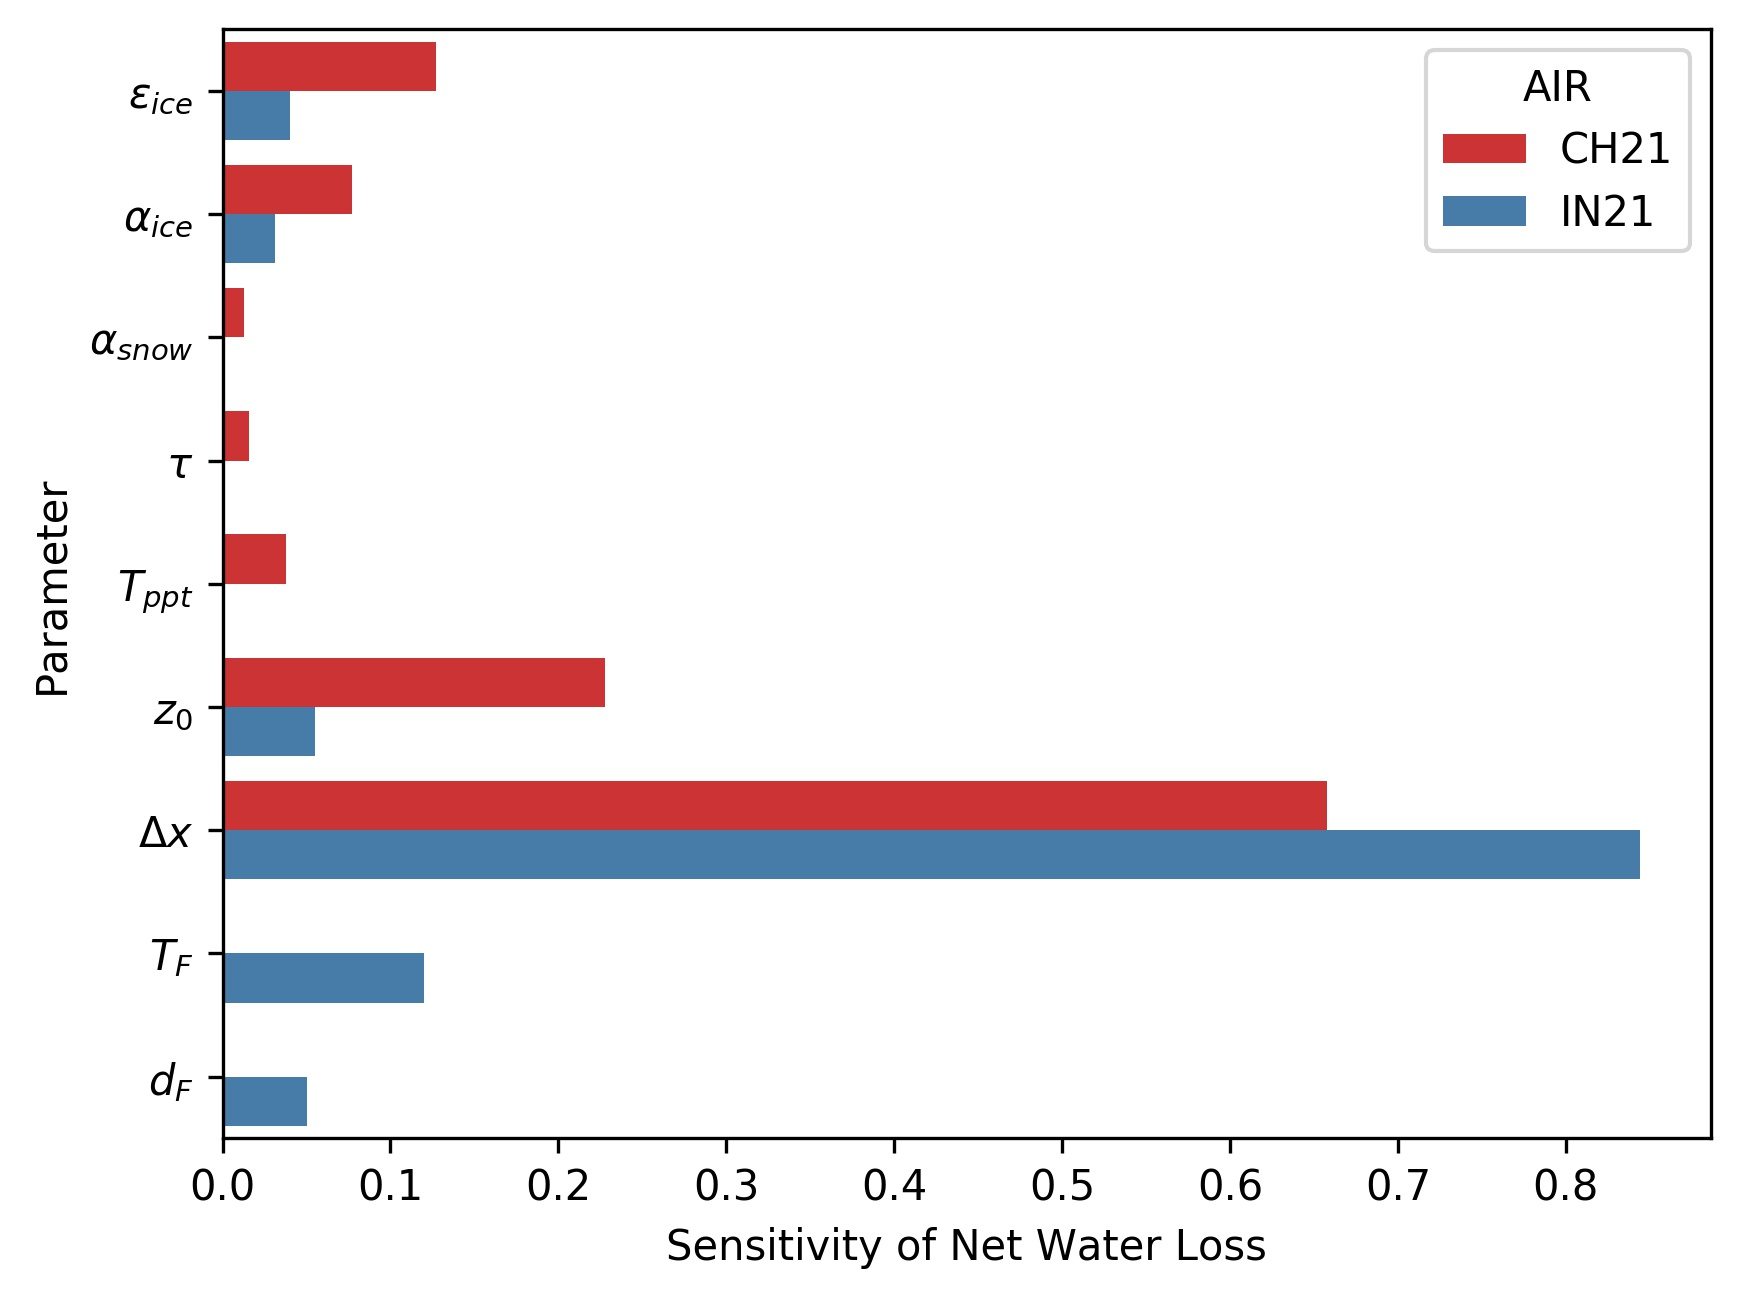
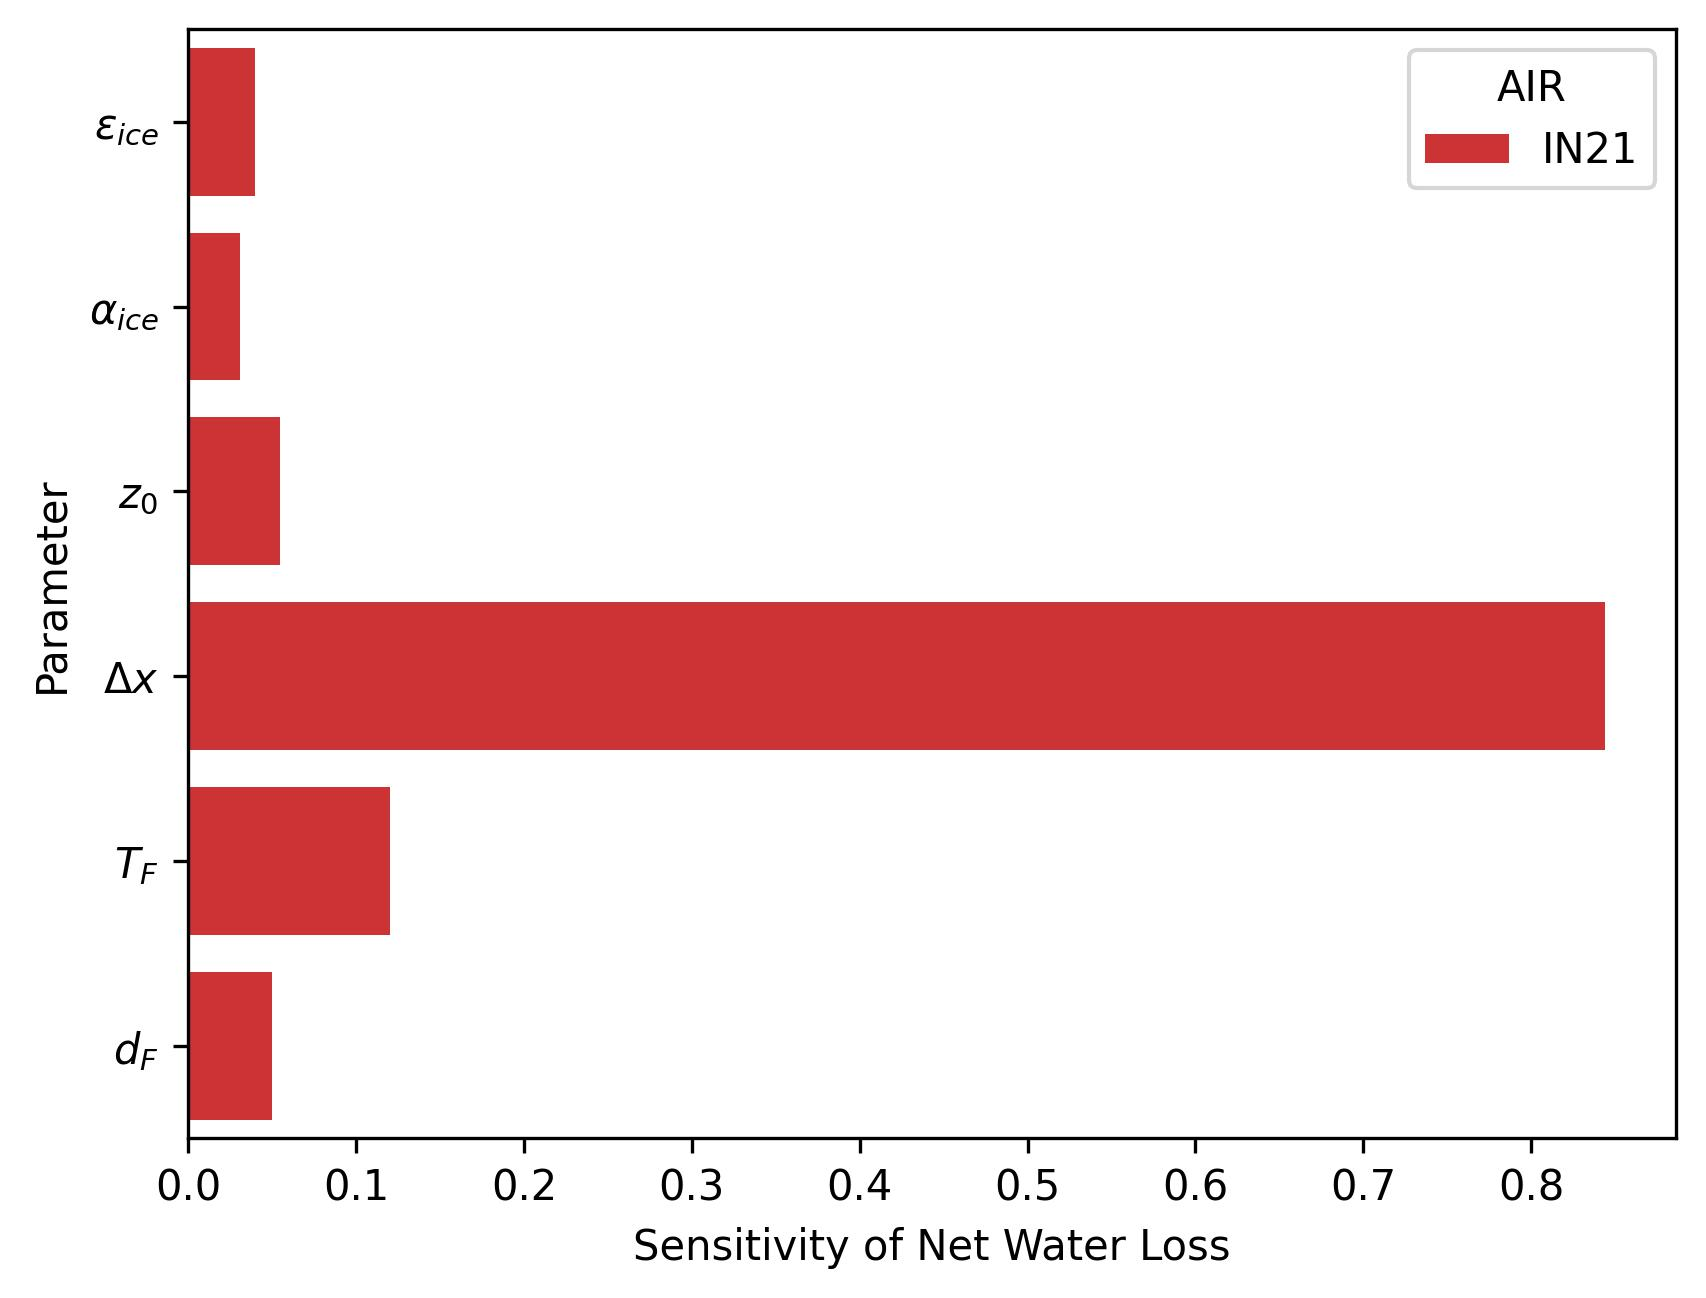
include max vol feature

diff --git a/src/plots/uq_plot_full.py b/src/plots/uq_plot_full.py
@@ -26,9 +26,10 @@ if __name__ == "__main__":
     logger = logging.getLogger(__name__)
     logger.setLevel("ERROR")
 
-    locations = ['gangles21', 'guttannen21', 'guttannen20']
+    # locations = ['gangles21', 'guttannen21', 'guttannen20']
     # locations = ["gangles21", "guttannen21"]
-    # locations = [ 'guttannen21']
+    locations = [ 'gangles21']
+    feature_name = 'max_volume'
 
     blue = "#0a4a97"
     red = "#e23028"
@@ -55,7 +56,6 @@ if __name__ == "__main__":
         CONSTANTS, SITE, FOLDER = config(location)
         icestupa = Icestupa(location)
         icestupa.read_output()
-        icestupa.self_attributes()
 
         variance = []
         mean = []
@@ -92,6 +92,7 @@ if __name__ == "__main__":
         )
 
         data.load(filename1)
+        # print(data[feature_name])
         print(data)
         data1 = data[location]
         data1["percentile_5"] = data1["percentile_5"][1 : len(days2) + 1]

diff --git a/src/utils/GSA_analyse.py b/src/utils/GSA_analyse.py
@@ -29,8 +29,8 @@ if __name__ == "__main__":
     logger.setLevel("ERROR")
 
     # locations = ["gangles21", "guttannen21"]
-    locations = ["guttannen21", "gangles21"]
-    # locations = [ 'gangles21']
+    # locations = ["guttannen21", "gangles21"]
+    locations = [ 'gangles21']
 
     result = []
     for i, location in enumerate(locations):
@@ -42,6 +42,7 @@ if __name__ == "__main__":
 
         data.load(filename1)
         data1 = data[location]
+        print(data)
 
         for param, value in zip(data.uncertain_parameters,data1['sobol_total_average'] ):
             print(f'\t{param} has total order sens. =  {round(value,2)}')

diff --git a/src/utils/uq_full.py b/src/utils/uq_full.py
@@ -69,6 +69,7 @@ if __name__ == "__main__":
             UQ = un.UncertaintyQuantification(
                 model=model,
                 parameters=parameters,
+                features=features,
                 # CPUs=12,
             )
 
@@ -80,7 +81,6 @@ if __name__ == "__main__":
                 figure_folder=FOLDER["sim"],
                 filename=type,
                 method="pc",
-                features=features,
                 # pc_method="spectral",
                 rosenblatt=True           
             )

diff --git a/src/plots/sensitivity.py b/src/plots/sensitivity.py
@@ -74,7 +74,6 @@ if __name__ == "__main__":
         SITE, FOLDER = config(location)
         icestupa = Icestupa(location)
         icestupa.read_output()
-        icestupa.self_attributes()
         feature_name = "efficiency"
 
         icestupa.se = (icestupa.M_water + icestupa.M_ice) / icestupa.M_input * 100
